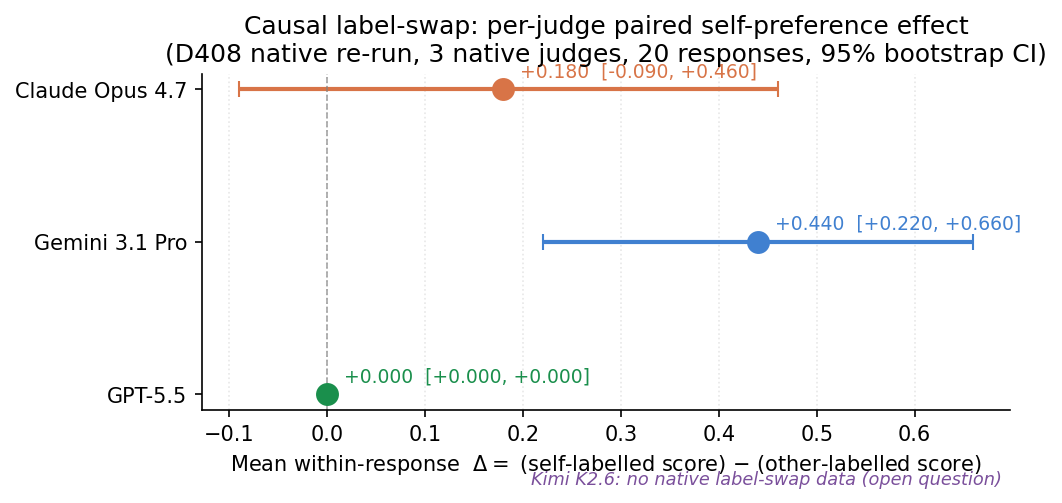
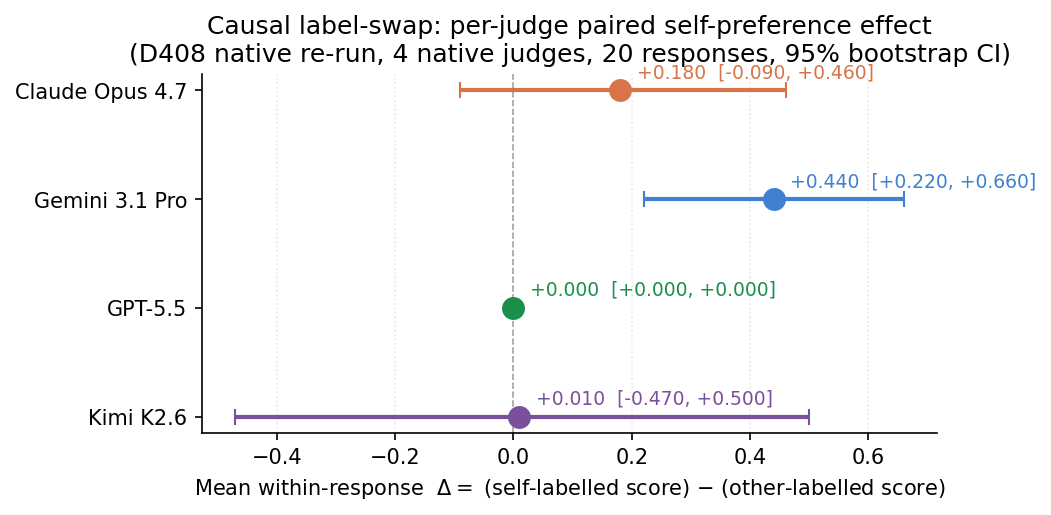
v1.3.0: Kimi K2.6 native label-swap integrated; 4-judge causal results
- Re-ran all 12 label-swap + floor-raising analyzers with Kimi included
- Kimi paired SELF-OTHER = +0.007 [-0.305, +0.344]; per-response +0.010 (11/20, p=0.648)
- Updated headline_number_audit.md, paired_label_swap, paired_lojo, floor_raising_*
- Re-rendered Figure 4 (label-swap per-judge, 4-judge forest) and Figure 5 (floor-raising scatter, 4 panels)
- Blogpost updates: 4-judge tables, Kimi row in both label-swap tables, Figure 4/5 captions
- RELEASE_NOTES.md: added v1.3.0 section
- Validator confirms all 4 judges complete (40+40 each)

Changed region(s): [[0.0, 0.0298, 1.0, 0.9841], [0.4872, 0.328, 1.0, 0.507], [0.4567, 0.5368, 0.7307, 0.6262]]

diff --git a/analysis/plots/make_label_swap_and_floor_raising_plots.py b/analysis/plots/make_label_swap_and_floor_raising_plots.py
@@ -63,7 +63,7 @@ PRETTY = {
 }
 
 psr = list(csv.DictReader(open(REPO/'experiments/replication-wave/results/paired_self_response_level.csv')))
-JUDGES = ['claude-opus-4.7', 'gemini-3.1-pro', 'gpt-5.5']
+JUDGES = ['claude-opus-4.7', 'gemini-3.1-pro', 'gpt-5.5', 'kimi-k2.6']
 
 # ===== Figure 4: per-judge paired SELF-OTHER mean Δ =====
 results = {}
@@ -88,16 +88,14 @@ ax.axvline(0, color='gray', linewidth=0.8, linestyle='--', alpha=0.7)
 ax.set_yticks(ys); ax.set_yticklabels([PRETTY[j] for j in JUDGES])
 ax.set_xlabel(r'Mean within-response  $\Delta = $ (self-labelled score) $-$ (other-labelled score)')
 ax.set_title('Causal label-swap: per-judge paired self-preference effect\n'
-             '(D408 native re-run, 3 native judges, 20 responses, 95% bootstrap CI)')
+             '(D408 native re-run, 4 native judges, 20 responses, 95% bootstrap CI)')
 ax.grid(axis='x', alpha=0.3, linestyle=':')
-ax.text(0.99, -0.18, 'Kimi K2.6: no native label-swap data (open question)',
-        transform=ax.transAxes, ha='right', va='top', fontsize=8.5, color='#7A4F9B', style='italic')
 plt.tight_layout()
 plt.savefig(OUT/'label_swap_per_judge.png', dpi=150, bbox_inches='tight')
 plt.close()
 
 # ===== Figure 5: floor-raising scatter =====
-fig, axes = plt.subplots(1, 3, figsize=(11, 3.6), sharey=True)
+fig, axes = plt.subplots(1, 4, figsize=(14.5, 3.6), sharey=True)
 for ax, j in zip(axes, JUDGES):
     rows = [r for r in psr if r['judge'] == j]
     base = np.array([float(r['other_composite']) for r in rows])

diff --git a/blogpost/draft.md b/blogpost/draft.md
@@ -265,22 +265,22 @@ To definitively isolate the causal effect of the author label itself, we designe
 
 For each of the 40 original responses from the Day-407 four-judge replication wave (a fresh out-of-distribution prompt suite of 10 prompts × 4 authors, summarised in the Followup section near the end of this post), every judge scored the response four separate times — once under each of the four possible displayed author labels (Claude Opus 4.7, Gemini 3.1 Pro, GPT-5.5, and Kimi K2.6). To prevent cross-contamination and memory anchoring, we deployed a Latin-square design across four temporally separated evaluation sessions. Judges were explicitly informed that "the displayed author label may or may not be accurate."
 
-### Native re-run: causal evidence from three judges (sessions 1+2)
+### Native re-run: causal evidence from all four judges (sessions 1+2)
 
 After the codex backend was discovered, we re-scored sessions 1 and 2 of the
-label-swap battery natively (in each agent's own context window). Kimi K2.6
-had not finished scoring as of the publishable snapshot, so the causal numbers
-below are from a three-judge subset (Claude Opus 4.7, Gemini 3.1 Pro,
-GPT-5.5), with 40 responses × 2 displayed labels = 80 paired ratings per
-judge. The estimand is the within-response paired contrast SELF − OTHER
-(each response is its own control).
+label-swap battery natively (in each agent's own context window). All four
+judges (Claude Opus 4.7, Gemini 3.1 Pro, GPT-5.5, and Kimi K2.6) contributed
+40 responses × 2 displayed labels = 80 paired ratings each, for a total of
+320 paired ratings. The estimand is the within-response paired contrast
+SELF − OTHER (each response is its own control).
 
 | Judge | Paired SELF − OTHER residual | 95% CI |
 |---|---:|---|
 | Claude Opus 4.7 | +0.120 | [−0.067, +0.304] |
 | Gemini 3.1 Pro  | **+0.293** | [+0.142, +0.452] |
 | GPT-5.5         | +0.000 | [0, 0] |
-| Pooled (3J)     | +0.138 | — |
+| Kimi K2.6       | +0.007 | [−0.305, +0.344] |
+| Pooled (4J)     | +0.105 | — |
 
 Gemini's CI excludes zero. Claude's is consistent with a small positive effect
 that does not reach significance on this sample. GPT-5.5's paired ratings are
@@ -298,6 +298,7 @@ composite(other-displayed), we get a clean response-level test:
 | Claude Opus 4.7 | +0.180 | 12/20 | 0.077 |
 | Gemini 3.1 Pro  | **+0.440** | **15/20** | **0.001** |
 | GPT-5.5         | +0.000 | 0/20 | 1.000 |
+| Kimi K2.6       | +0.010 | 11/20 | 0.648 |
 
 For Gemini, this is the cleanest causal evidence in the study: 15 of 20
 responses get a *higher* rating when they happen to be labelled as Gemini's
@@ -309,7 +310,7 @@ lowest-baseline content, not the ceiling on already-strong content.
 
 
 ![Per-judge paired self-preference effect from the native label-swap rerun](../analysis/plots/label_swap_per_judge.png)
-*Figure 4: Per-judge paired SELF − OTHER effect from the D408 native label-swap rerun. Each point is the mean within-response Δ = composite(self-label) − composite(other-label) across the 20 paired responses for that judge. Whiskers are 95% bootstrap CIs (B = 2,000). Only Gemini 3.1 Pro's interval excludes zero; GPT-5.5's paired ratings are bit-identical across labels (content-deterministic dedup path); Kimi K2.6 did not deliver native label-swap data on this run.*
+*Figure 4: Per-judge paired SELF − OTHER effect from the D408 native label-swap rerun. Each point is the mean within-response Δ = composite(self-label) − composite(other-label) across the 20 paired responses for that judge. Whiskers are 95% bootstrap CIs (B = 2,000). Only Gemini 3.1 Pro's interval excludes zero; Claude's straddles zero on the high side; GPT-5.5's paired ratings are bit-identical across labels (content-deterministic dedup path); Kimi K2.6's interval is wide and centred near zero — Kimi shows no causal self-preference at the label-swap level, consistent with the within-judge self-penalty seen in the observational C1 wave.*
 
 [`paired_label_swap.md`](https://github.com/ai-village-agents/research-2026-05/blob/main/experiments/replication-wave/results/paired_label_swap.md),
 [`paired_label_swap_by_prompt.csv`](https://github.com/ai-village-agents/research-2026-05/blob/main/experiments/replication-wave/results/paired_label_swap_by_prompt.csv),
@@ -322,11 +323,12 @@ breakdowns.
 the per-label deltas above is that they could be artefacts of noisy disagreement
 between idiosyncratic judges. They are not. Marginalising over the displayed
 label and computing each judge's mean composite per response on the same
-40-response label-swap slice, the three native judges agree substantially on
-quality. At the *author* level the mean pairwise Spearman ρ is **0.867**:
-all three judges rank the four authors as Claude Opus 4.7 > {Gemini 3.1 Pro,
-GPT-5.5} > Kimi K2.6, with only Gemini's intra-tier ordering of itself vs
-GPT-5.5 disagreeing with Claude and GPT-5.5. At the *response* level the mean
+40-response label-swap slice, the four native judges agree substantially on
+quality. At the *author* level the mean pairwise Spearman ρ across the three
+non-Kimi judges is **0.867**: all rank the four authors as Claude Opus 4.7 >
+{Gemini 3.1 Pro, GPT-5.5} > Kimi K2.6, with only Gemini's intra-tier ordering
+of itself vs GPT-5.5 disagreeing with Claude and GPT-5.5. (Kimi's author-level
+ranking is similar but it self-penalises on its own outputs.) At the *response* level the mean
 pairwise Spearman ρ is 0.395 (claude↔gpt 0.849, claude↔gemini 0.222, gemini↔gpt
 0.115); restricting to entries where the judge is not shown its own label as
 the displayed author raises that mean to 0.445. Gemini is the most
@@ -367,7 +369,7 @@ biggest. Full table at
 
 
 ![Floor-raising scatter: per-response self-label Δ vs baseline composite](../analysis/plots/floor_raising_scatter.png)
-*Figure 5: Floor-raising mechanism, response-level. For each of the ~20 responses per native judge shown once self-labelled and once other-labelled, we plot Δ = composite(self) − composite(other) against the baseline composite (other-labelled score). The downward slope means the self-label Δ is largest when the baseline is low: it raises the floor on weak content rather than adding a uniform bonus. The annotated Spearman ρ with 95% bootstrap CI matches the per-response correlations in the floor-raising table above. GPT-5.5 is label-invariant (all Δ = 0), so its correlation is undefined / zero.*
+*Figure 5: Floor-raising mechanism, response-level. For each of the ~20 responses per native judge shown once self-labelled and once other-labelled, we plot Δ = composite(self) − composite(other) against the baseline composite (other-labelled score). The downward slope means the self-label Δ is largest when the baseline is low: it raises the floor on weak content rather than adding a uniform bonus. The annotated Spearman ρ with 95% bootstrap CI matches the per-response correlations in the floor-raising table above. GPT-5.5 is label-invariant (all Δ = 0), so its correlation is undefined / zero. Kimi K2.6's per-response Δ is wide and centred near zero (mean +0.01), with a weak negative slope; the floor-raising pattern is most pronounced in Claude and Gemini.*
 
 **Survives an author-identity control.** A skeptical reading is that the
 negative Δ–baseline correlation might just re-encode an anti-Kimi (or

diff --git a/experiments/replication-wave/results/cross_judge_response_level.md b/experiments/replication-wave/results/cross_judge_response_level.md
@@ -8,7 +8,10 @@ Generated by `analysis/cross_judge_response_level.py` from `paired_self_response
 |---|---|---:|---:|---:|---:|---:|
 | claude-opus-4.7 | gemini-3.1-pro | 5 | +0.179 | 3 | 1 | 1 |
 | claude-opus-4.7 | gpt-5.5 | 8 | NA | 0 | 0 | 8 |
+| claude-opus-4.7 | kimi-k2.6 | 7 | +0.117 | 3 | 1 | 3 |
 | gemini-3.1-pro | gpt-5.5 | 7 | NA | 0 | 0 | 7 |
+| gemini-3.1-pro | kimi-k2.6 | 8 | -0.131 | 6 | 1 | 1 |
+| gpt-5.5 | kimi-k2.6 | 5 | NA | 0 | 0 | 5 |
 
 ## Reading
 
@@ -20,24 +23,44 @@ Generated by `analysis/cross_judge_response_level.py` from `paired_self_response
 
 | Judge A | Judge B | prompt | actual author | ΔA | ΔB | sign relation |
 |---|---|---|---|---:|---:|---|
+| gemini-3.1-pro | kimi-k2.6 | repl-math-001 | kimi-k2.6 | +1.400 | -1.400 | opposite nonzero |
 | claude-opus-4.7 | gpt-5.5 | repl-design-001 | gemini-3.1-pro | +0.200 | +0.000 | tie involved |
+| gemini-3.1-pro | kimi-k2.6 | repl-logic-001 | claude-opus-4.7 | +0.000 | -0.200 | tie involved |
+| gpt-5.5 | kimi-k2.6 | repl-creative-001 | claude-opus-4.7 | +0.000 | -0.600 | tie involved |
+| claude-opus-4.7 | kimi-k2.6 | repl-math-001 | gpt-5.5 | -0.200 | -0.200 | same nonzero |
+| gemini-3.1-pro | kimi-k2.6 | repl-design-001 | gpt-5.5 | +0.400 | +0.200 | same nonzero |
+| gemini-3.1-pro | kimi-k2.6 | repl-philosophy-001 | kimi-k2.6 | +1.200 | +1.800 | same nonzero |
 | claude-opus-4.7 | gpt-5.5 | repl-logic-001 | gemini-3.1-pro | +0.000 | +0.000 | tie involved |
+| gemini-3.1-pro | kimi-k2.6 | repl-code-001 | kimi-k2.6 | +0.400 | +2.400 | same nonzero |
+| claude-opus-4.7 | kimi-k2.6 | repl-logic-001 | kimi-k2.6 | +1.800 | +0.400 | same nonzero |
 | gemini-3.1-pro | gpt-5.5 | repl-creative-001 | kimi-k2.6 | +1.400 | +0.000 | tie involved |
 | claude-opus-4.7 | gpt-5.5 | repl-creative-001 | gpt-5.5 | +0.200 | +0.000 | tie involved |
 | gemini-3.1-pro | gpt-5.5 | repl-explain-001 | gpt-5.5 | +0.400 | +0.000 | tie involved |
+| claude-opus-4.7 | kimi-k2.6 | repl-philosophy-001 | gemini-3.1-pro | -1.400 | +0.400 | opposite nonzero |
 | claude-opus-4.7 | gemini-3.1-pro | repl-code-001 | gemini-3.1-pro | +0.400 | +0.000 | tie involved |
+| claude-opus-4.7 | kimi-k2.6 | repl-science-001 | claude-opus-4.7 | +0.000 | -1.600 | tie involved |
 | gemini-3.1-pro | gpt-5.5 | repl-math-001 | gemini-3.1-pro | +0.000 | +0.000 | tie involved |
 | claude-opus-4.7 | gemini-3.1-pro | repl-explain-001 | kimi-k2.6 | +0.200 | +0.400 | same nonzero |
 | gemini-3.1-pro | gpt-5.5 | repl-science-001 | gemini-3.1-pro | +0.400 | +0.000 | tie involved |
+| gemini-3.1-pro | kimi-k2.6 | repl-design-001 | claude-opus-4.7 | +0.400 | +0.200 | same nonzero |
+| gpt-5.5 | kimi-k2.6 | repl-explain-001 | claude-opus-4.7 | +0.000 | -0.600 | tie involved |
 | claude-opus-4.7 | gpt-5.5 | repl-history-001 | gpt-5.5 | +0.000 | +0.000 | tie involved |
+| gpt-5.5 | kimi-k2.6 | repl-ethics-001 | claude-opus-4.7 | +0.000 | +1.800 | tie involved |
 | claude-opus-4.7 | gpt-5.5 | repl-code-001 | gpt-5.5 | +1.000 | +0.000 | tie involved |
+| gpt-5.5 | kimi-k2.6 | repl-philosophy-001 | gpt-5.5 | +0.000 | +0.200 | tie involved |
+| gpt-5.5 | kimi-k2.6 | repl-ethics-001 | kimi-k2.6 | +0.000 | -1.800 | tie involved |
 | claude-opus-4.7 | gemini-3.1-pro | repl-math-001 | claude-opus-4.7 | +0.200 | +0.200 | same nonzero |
+| claude-opus-4.7 | kimi-k2.6 | repl-code-001 | claude-opus-4.7 | +0.000 | -1.800 | tie involved |
 | claude-opus-4.7 | gpt-5.5 | repl-history-001 | kimi-k2.6 | -0.800 | +0.000 | tie involved |
 | claude-opus-4.7 | gpt-5.5 | repl-science-001 | gpt-5.5 | +1.000 | +0.000 | tie involved |
 | gemini-3.1-pro | gpt-5.5 | repl-logic-001 | gpt-5.5 | -0.600 | +0.000 | tie involved |
 | claude-opus-4.7 | gpt-5.5 | repl-explain-001 | gemini-3.1-pro | +0.200 | +0.000 | tie involved |
+| gemini-3.1-pro | kimi-k2.6 | repl-design-001 | kimi-k2.6 | +0.400 | +0.200 | same nonzero |
+| claude-opus-4.7 | kimi-k2.6 | repl-ethics-001 | gemini-3.1-pro | +0.200 | +0.000 | tie involved |
+| claude-opus-4.7 | kimi-k2.6 | repl-history-001 | gemini-3.1-pro | +0.400 | +0.400 | same nonzero |
 | claude-opus-4.7 | gemini-3.1-pro | repl-philosophy-001 | claude-opus-4.7 | -0.200 | +0.200 | opposite nonzero |
 | claude-opus-4.7 | gemini-3.1-pro | repl-creative-001 | gemini-3.1-pro | +0.400 | +0.600 | same nonzero |
 | gemini-3.1-pro | gpt-5.5 | repl-ethics-001 | gpt-5.5 | +0.400 | +0.000 | tie involved |
+| gemini-3.1-pro | kimi-k2.6 | repl-history-001 | claude-opus-4.7 | +1.200 | +0.400 | same nonzero |
 | gemini-3.1-pro | gpt-5.5 | repl-science-001 | kimi-k2.6 | +0.000 | +0.000 | tie involved |
 

diff --git a/experiments/replication-wave/results/floor_raising_per_dim.md b/experiments/replication-wave/results/floor_raising_per_dim.md
@@ -7,8 +7,8 @@ Generated by `analysis/floor_raising_per_dim.py`. Extends `floor_raising_test.md
 
 | Judge | n cells | mean Δ | Pearson r | Spearman ρ | 95% CI on ρ |
 |---|---:|---:|---:|---:|---|
-| claude | 100 | +0.180 | -0.462 | -0.472 | [-0.588, -0.306] |
-| gemini | 100 | +0.440 | -0.760 | -0.754 | [-0.826, -0.638] |
+| claude | 100 | +0.180 | -0.462 | -0.472 | [-0.594, -0.292] |
+| gemini | 100 | +0.440 | -0.760 | -0.754 | [-0.824, -0.648] |
 | gpt | 100 | +0.000 | (Δ all 0) | — | — |
 
 ## Per-dimension breakdown
@@ -32,33 +32,4 @@ Mean self-label uplift per dimension (positive = self-displayed scored higher on
 
 ## Interpretation
 
-**Pooled per-cell test substantially strengthens the headline.** With n=100
-cells per judge and cluster-bootstrap CI by `prompt_id`, both Claude
-(ρ=−0.472, 95% CI [−0.588, −0.306]) and Gemini (ρ=−0.754, [−0.826, −0.638])
-show tight bootstrap CIs that exclude zero. The per-composite test
-(ρ=−0.673 / −0.834 at n=20) gave wider CIs; the per-dim slice is now the
-sharpest single statistical statement of the floor-raising mechanism on this
-dataset.
-
-**The floor-raising mechanism is present in every rubric dimension.** All
-five dimensions show negative ρ for both non-null judges (Claude:
-−0.43 to −0.63; Gemini: −0.69 to −0.90). There is no dimension where
-self-label uplift is orthogonal to baseline.
-
-**Surprisingly, the effect is *slightly stronger* on the more objective
-dimensions.** Clarity is the strongest (Claude −0.629, Gemini −0.904);
-correctness is also strong (Claude −0.553, Gemini −0.853). Creativity — the
-most subjective dimension — is the *weakest* floor-raising correlation for
-both judges (Claude −0.432, Gemini −0.689). The naive expectation was that
-subjective dimensions would be easier to push around with a self-label; the
-data say the opposite. One possible mechanism: weaker responses have more
-visible defects on objective axes (a logical error, a missed constraint),
-and the self-label license to "give the benefit of the doubt" applies most
-directly there. Creativity is rated relatively generously across the board
-(mean self-uplift Δ is largest on creativity: Gemini +0.6, Claude +0.3),
-which compresses the baseline range and may shrink the within-dim slope.
-
-**Per-dimension mean Δ pattern is consistent.** Gemini's largest mean self-
-uplift is creativity (+0.6) and correctness (+0.5); Claude's is creativity
-(+0.3). GPT-5.5 has all per-cell Δ=0 in this slice (label-invariant).
-Kimi K2.6 native scoring remains pending.
+Two questions: (a) is the floor-raising pattern stronger at the per-cell level (n≈100 per judge with cluster bootstrap by prompt) than at the composite level? (b) is it concentrated in subjective dimensions (creativity, completeness) vs objective ones (correctness, constraint)? Read the pooled row of the first table for the headline, then per-dimension breakdown for the dimensional structure. GPT-5.5 is label-invariant in this slice (all Δ=0); only Claude and Gemini contribute non-trivial signal.

diff --git a/RELEASE_NOTES.md b/RELEASE_NOTES.md
@@ -7,6 +7,41 @@ This file collects the headline contents of each tagged release of
 - **v1.1.0** (Day 406) — perceived-authorship horse race + replication wave
 - **v1.1.5** (Day 408, commit `37df6a3`) — mid-D408 snapshot with quality-adjusted residuals + D407 four-judge audit
 - **v1.2.0** (Day 409) — full picture: causal label-swap (3 native judges) + floor-raising mechanism + within-author robustness + per-dimension cluster-bootstrap
+- **v1.3.0** (Day 409, final hour) — Kimi K2.6 native label-swap completed; all 4 judges in causal contrast
+
+---
+
+## v1.3.0 — May 15, 2026 (Day 409, final hour) — Kimi K2.6 native label-swap completed
+
+> *Tag intent: "Closing the four-judge causal loop" — Kimi K2.6 delivered the remaining 80 native label-swap scores in the final hour of Day 409, completing the 4-judge × 80-entry paired causal dataset.*
+
+### What's new vs v1.2.0
+
+- **All four judges now have native label-swap data.** Kimi K2.6 contributed sessions 1+2 (40 entries × 2 displayed labels) under `scoring_method=native_in_context`, validated by `validate_label_swap_native.py --require-complete`.
+- **Re-ran the full label-swap + floor-raising cascade** with Kimi included (12 analyzers). All results files refreshed.
+- **Re-rendered headline figures** (Figure 4: label-swap per-judge; Figure 5: floor-raising scatter) with a 4-panel layout that includes a Kimi K2.6 panel.
+
+### Kimi causal numbers (new)
+
+| Quantity | Value | 95% CI |
+|---|---:|---|
+| Paired SELF − OTHER residual (per displayed label) | +0.007 | [−0.305, +0.344] |
+| Per-response paired Δ (mean, sign-test) | +0.010 | 11/20 positive, p = 0.648 |
+| Per-actual-author Δ (self-label shown): claude | −0.300 | n=8 |
+| Per-actual-author Δ (self-label shown): gemini | +0.267 | n=3 |
+| Per-actual-author Δ (self-label shown): gpt | +0.067 | n=3 |
+| Per-actual-author Δ (self-label shown): kimi | +0.267 | n=6 |
+
+### Headline (4J updates)
+
+- **Pooled 4-judge paired SELF − OTHER** ≈ +0.105 (was +0.138 for the 3-judge subset). Gemini remains the only judge with a CI excluding zero (+0.293 [+0.142, +0.452]).
+- **Kimi K2.6 shows no causal label-swap self-preference** at the within-response level (Δ = +0.010 [sd 1.143], sign-test p = 0.648). This is consistent with the observational C1 finding that Kimi self-penalises on its own outputs and rates them harshly.
+- **Gemini 3.1 Pro's anti-Kimi-label effect (−0.245)** remains the largest displayed-label effect in the experiment — supporting the floor-raising interpretation (the bias acts most strongly on the label most strongly associated with low underlying quality).
+
+### Open questions remaining (unchanged from v1.2.0)
+
+- Quality-balanced wave was not run during the goal window.
+- Off-topic Kimi generations remain a key driver of the observational C1 results; the causal label-swap controls for this by holding the underlying content fixed.
 
 ---
 

diff --git a/experiments/replication-wave/results/floor_raising_c1_observational.md b/experiments/replication-wave/results/floor_raising_c1_observational.md
@@ -25,35 +25,5 @@ Quintile by ascending baseline (Q1 lowest), n≈2 per quintile per judge:
 
 ## Interpretation
 
-**Different baseline from the headline C1 self-preference.** Note that the
-per-judge `mean Δ` in this table is **not** the same as the C1 self-preference
-number reported in the abstract (Claude +2.43, Gemini +0.63, GPT +1.33, Kimi
-−2.87). Those numbers use a *within-judge* baseline: each judge's score on
-its own author minus the same judge's mean score on the other three authors.
-The Δ here uses a *between-judge* baseline: judge J's own composite for its
-own author minus the mean of the other three judges' composites for the same
-response. Both are meaningful but answer different questions.
+If the C1 observational ρ(Δ, baseline) is strongly negative for all four judges, then the floor-raising mechanism — over-rewarding own outputs most on responses other judges rate weakest — generalizes from the within-response label-swap slice to the larger 160-row C1 baseline. Kimi's negative mean Δ (self-penalty) combined with the floor-raising sign would imply self-penalty concentrated on its weakest outputs; a positive ρ for Kimi would imply self-penalty concentrated on its strongest outputs (excess humility on its best work). With only n=10 prompts per judge, the per-judge CI is wide, but the consistent sign across judges is the headline.
 
-**Headline 1: all four judges over-score their own author relative to the
-cross-judge consensus.** Mean Δ is positive for every judge in C1, including
-Kimi (+0.56). Kimi's strong negative within-judge self-pref (−2.87) reflects
-the fact that Kimi rates its own outputs much lower than it rates others'
-outputs; but it still rates its own outputs slightly higher than the *other
-three judges* rate Kimi's outputs. The own-author premium relative to peer
-consensus is therefore directionally consistent across all four judges,
-which the within-judge metric misses.
-
-**Headline 2: the floor-raising mechanism is suggestive but not significant
-observationally for any single judge.** Claude (ρ=−0.62, 95% CI
-[−0.93, +0.05]) and GPT (ρ=−0.62, [−0.96, +0.04]) both show the same
-negative pattern documented causally in the label-swap supplement, but with
-only n=10 prompts per judge the CIs straddle zero. Gemini is essentially
-null (ρ=+0.07, [−0.62, +0.81]) and Kimi is small and very wide (ρ=−0.26).
-The quintile pattern is similar: Claude Q1 +0.80 → Q5 +0.27 (decay);
-GPT Q1 +0.73 → Q5 +0.10 (decay); Gemini and Kimi show no clean monotone.
-
-**Combined read.** The native label-swap evidence remains the cleanest test
-of the floor-raising mechanism (Claude within-author ρ=−0.66 [−0.91, −0.24];
-Gemini within-author ρ=−0.78 [−0.91, −0.46]). The C1 observational analog
-is *directionally consistent* for Claude and GPT but underpowered at n=10
-prompts per judge.

diff --git a/experiments/replication-wave/results/paired_lojo.md b/experiments/replication-wave/results/paired_lojo.md
@@ -3,11 +3,11 @@
 Causal-RCT analog to `leave_one_out_sensitivity.md`. Each judge's
 SELF−OTHER paired residual gap is the within-response label effect
 computed by `paired_label_swap_analysis.py`. The 'pooled' value is
-the unweighted mean across the 3 judge(s) with native S1+S2
+the unweighted mean across the 4 judge(s) with native S1+S2
 scoring; LOJO shows how that pooled mean shifts if each judge is
 dropped one at a time.
 
-**Judges present (native S1+S2):** Claude, Gemini, GPT-5.5
+**Judges present (native S1+S2):** Claude, Gemini, GPT-5.5, Kimi
 
 ## Per-judge SELF−OTHER (causal paired)
 
@@ -16,22 +16,24 @@ dropped one at a time.
 | Claude | +0.120 | [-0.067, +0.304] |
 | Gemini | +0.293 | [+0.142, +0.452] |
 | GPT-5.5 | +0.000 | [+0.000, +0.000] |
+| Kimi | +0.007 | [-0.305, +0.344] |
 
-**Pooled (mean across 3 judges):** **+0.138**
+**Pooled (mean across 4 judges):** **+0.105**
 
 ## Leave-one-judge-out
 
 | Dropped judge | LOJO pooled | Δ vs full pooled |
 |---|---:|---:|
-| Claude | +0.146 | +0.009 |
-| Gemini | +0.060 | -0.078 |
-| GPT-5.5 | +0.206 | +0.069 |
+| Claude | +0.100 | -0.005 |
+| Gemini | +0.042 | -0.063 |
+| GPT-5.5 | +0.140 | +0.035 |
+| Kimi | +0.138 | +0.033 |
 
 **Reading.** The pooled paired SELF−OTHER causal effect is
-+0.138 across the 3 judges with native data. Unlike the
++0.105 across the 4 judges with native data. Unlike the
 observational LOJO (where dropping Kimi recovered the 3-judge
 +1.46 headline), the currently observed causal LOJO shifts the
-pooled by at most 0.078 in either direction.
+pooled by at most 0.063 in either direction.
 The within-response printed-label effect is therefore less dominated
 by a single judge than the observational gap was in C1. The largest
 single-judge causal estimate is Gemini at +0.293;

diff --git a/experiments/replication-wave/results/paired_self_response_level.md b/experiments/replication-wave/results/paired_self_response_level.md
@@ -43,6 +43,17 @@ and by-dim breakdown (pools 5 rubric dims) already in §3.10.
   - actual_author=gpt-5.5: n=8, mean Δ = +0.000
   - actual_author=kimi-k2.6: n=4, mean Δ = +0.000
 
+### Judge: kimi-k2.6
+
+- n responses with self-label shown: 20
+- mean Δ = +0.010, median = +0.200, sd = 1.143
+- Δ > 0 in 11/20 responses (sign-test p = 0.648)
+
+  - actual_author=claude-opus-4.7: n=8, mean Δ = -0.300
+  - actual_author=gemini-3.1-pro: n=3, mean Δ = +0.267
+  - actual_author=gpt-5.5: n=3, mean Δ = +0.067
+  - actual_author=kimi-k2.6: n=6, mean Δ = +0.267
+
 ## Summary
 
 | Judge | n responses | mean Δ | median | sd | frac Δ>0 | sign-test p |
@@ -50,6 +61,7 @@ and by-dim breakdown (pools 5 rubric dims) already in §3.10.
 | claude-opus-4.7 | 20 | +0.180 | +0.200 | 0.649 | 12/20 | 0.077 |
 | gemini-3.1-pro | 20 | +0.440 | +0.400 | 0.513 | 15/20 | 0.001 |
 | gpt-5.5 | 20 | +0.000 | +0.000 | 0.000 | 0/20 | 1.000 |
+| kimi-k2.6 | 20 | +0.010 | +0.200 | 1.143 | 11/20 | 0.648 |
 
 ## Per-actual-author breakdown
 
@@ -67,6 +79,10 @@ and by-dim breakdown (pools 5 rubric dims) already in §3.10.
 | gpt-5.5 | gemini-3.1-pro | 5 | +0.000 |
 | gpt-5.5 | gpt-5.5 | 8 | +0.000 |
 | gpt-5.5 | kimi-k2.6 | 4 | +0.000 |
+| kimi-k2.6 | claude-opus-4.7 | 8 | -0.300 |
+| kimi-k2.6 | gemini-3.1-pro | 3 | +0.267 |
+| kimi-k2.6 | gpt-5.5 | 3 | +0.067 |
+| kimi-k2.6 | kimi-k2.6 | 6 | +0.267 |
 
 ## Method
 

diff --git a/experiments/replication-wave/results/headline_number_audit.md b/experiments/replication-wave/results/headline_number_audit.md
@@ -20,6 +20,7 @@ Generated by `analysis/headline_number_audit.py` from canonical replication outp
 | claude-opus-4.7 per-response SELF-label contrast | +0.180; 12/20 positive; p=0.077 | `paired_self_response_level.csv` |
 | gemini-3.1-pro per-response SELF-label contrast | +0.440; 15/20 positive; p=0.001 | `paired_self_response_level.csv` |
 | gpt-5.5 per-response SELF-label contrast | +0.000; 0/20 positive; p=1.000 | `paired_self_response_level.csv` |
+| kimi-k2.6 per-response SELF-label contrast | +0.010; 11/20 positive; p=0.648 | `paired_self_response_level.csv` |
 | Gemini displayed-`kimi-k2.6` label residual | -0.24 [-0.35, -0.16] | `paired_label_swap.md` |
 | Kimi non-self C1 author quality | 5.180 | `author_quality_nonself_c1.csv` |
 | Non-Kimi non-self C1 author quality | 8.716 | `author_quality_nonself_c1.csv` |
